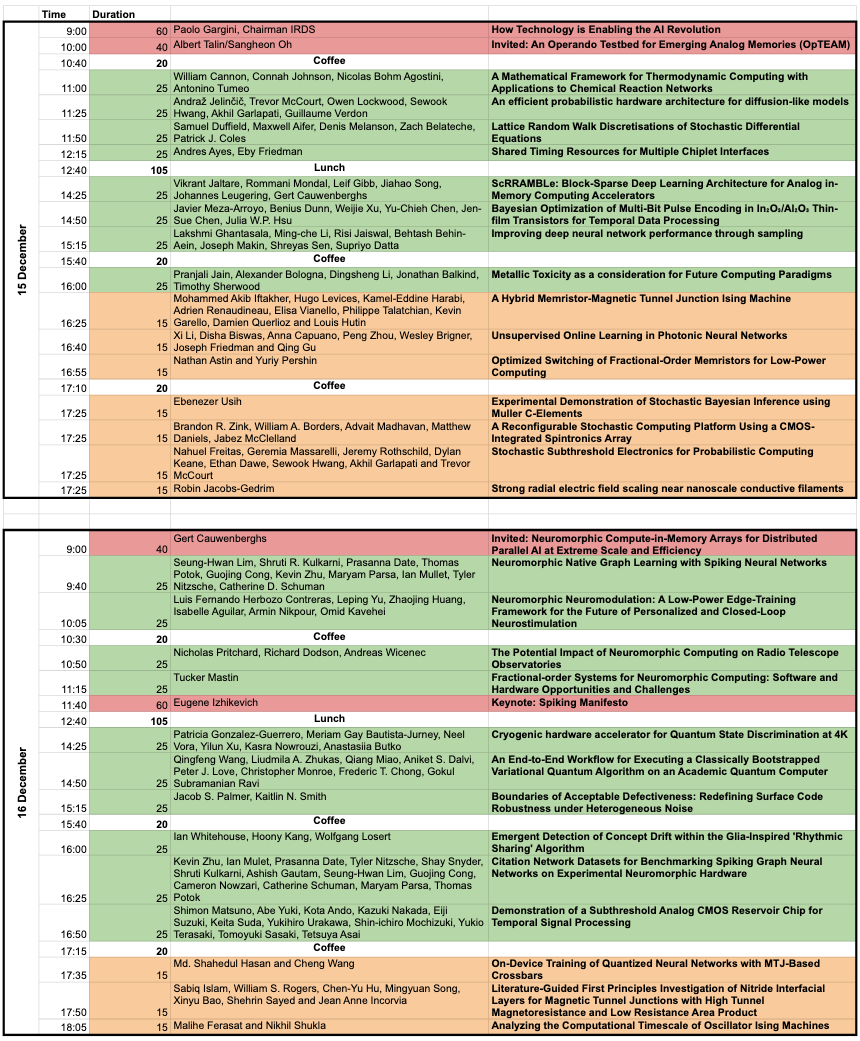
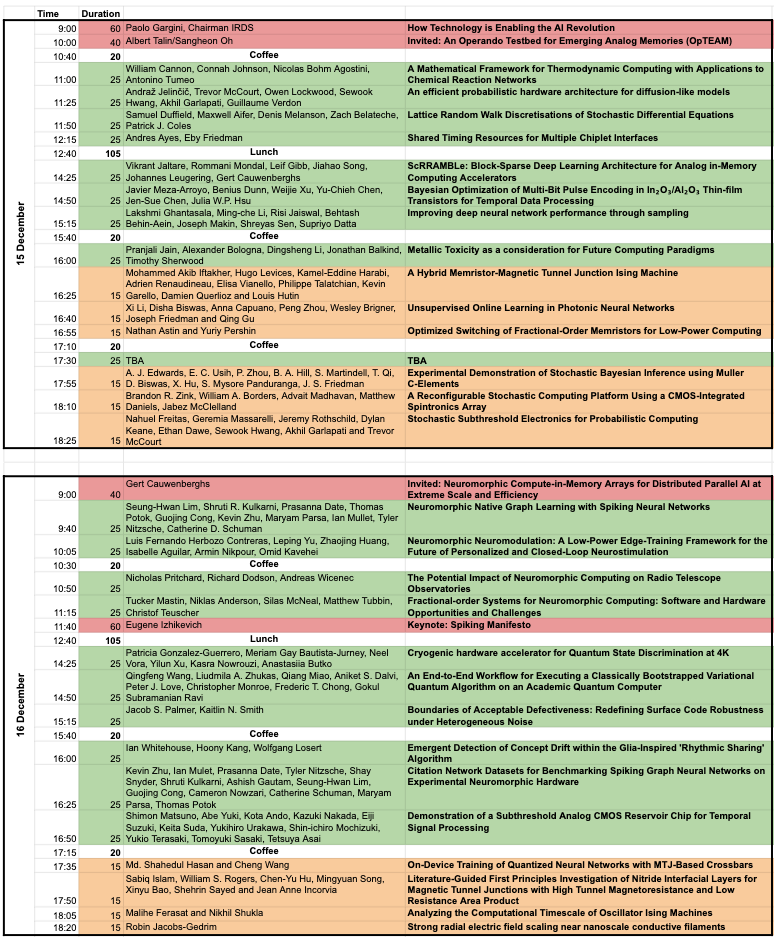
keynote

diff --git a/index.html b/index.html
@@ -264,6 +264,33 @@
     <section id="program" class="section">
       <h2>Program</h2>
         <div class="card">
+        <h3>Keynote: Spiking Manifesto - Eugene Izhikevich</h3>
+        
+        <p>Practically everything computers do is better, faster, and more power-efficient than the brain. 
+        For example, a calculator crunches numbers more energy-efficiently than any human. 
+        Yet AI models are a thousand times less efficient than the brain. 
+        These models use artificial neural networks (ANNs) requiring GPUs 
+        for multiplication of huge matrices. In contrast, spiking neural networks (SNNs) 
+        of the brain have no matrix multiplication and much smaller energy requirements. 
+        </p>
+        <p>
+        In this manifesto I propose a framework for thinking about popular AI models in terms of spiking networks and polychronization, 
+        and for interpreting spiking activity as nature's way of implementing look-up tables.
+        This offers a way to convert AI models into a novel type 
+        of architecture with the promise of a thousandfold improvement in efficiency.
+        </p>
+
+        <p>
+          <b>Bio:</b>
+          <ul>
+            <li>Founder and CEO of SpikeCore, San Diego, CA</li>
+            <li>Founder and Chairman of the Board of Brain Corp, San Diego, CA</li>
+            <li>Founder and Editor-in-Chief of Scholarpedia - the peer-reviewed encyclopedia</li>
+            <li>Author of 2 textbooks, 200 patents and peer-reviewed publications</li>
+          </ul>
+        </p>
+        </div>
+        <div class="card">
           <img width="100%" src="program.png"/>
         </div>
     </section>
